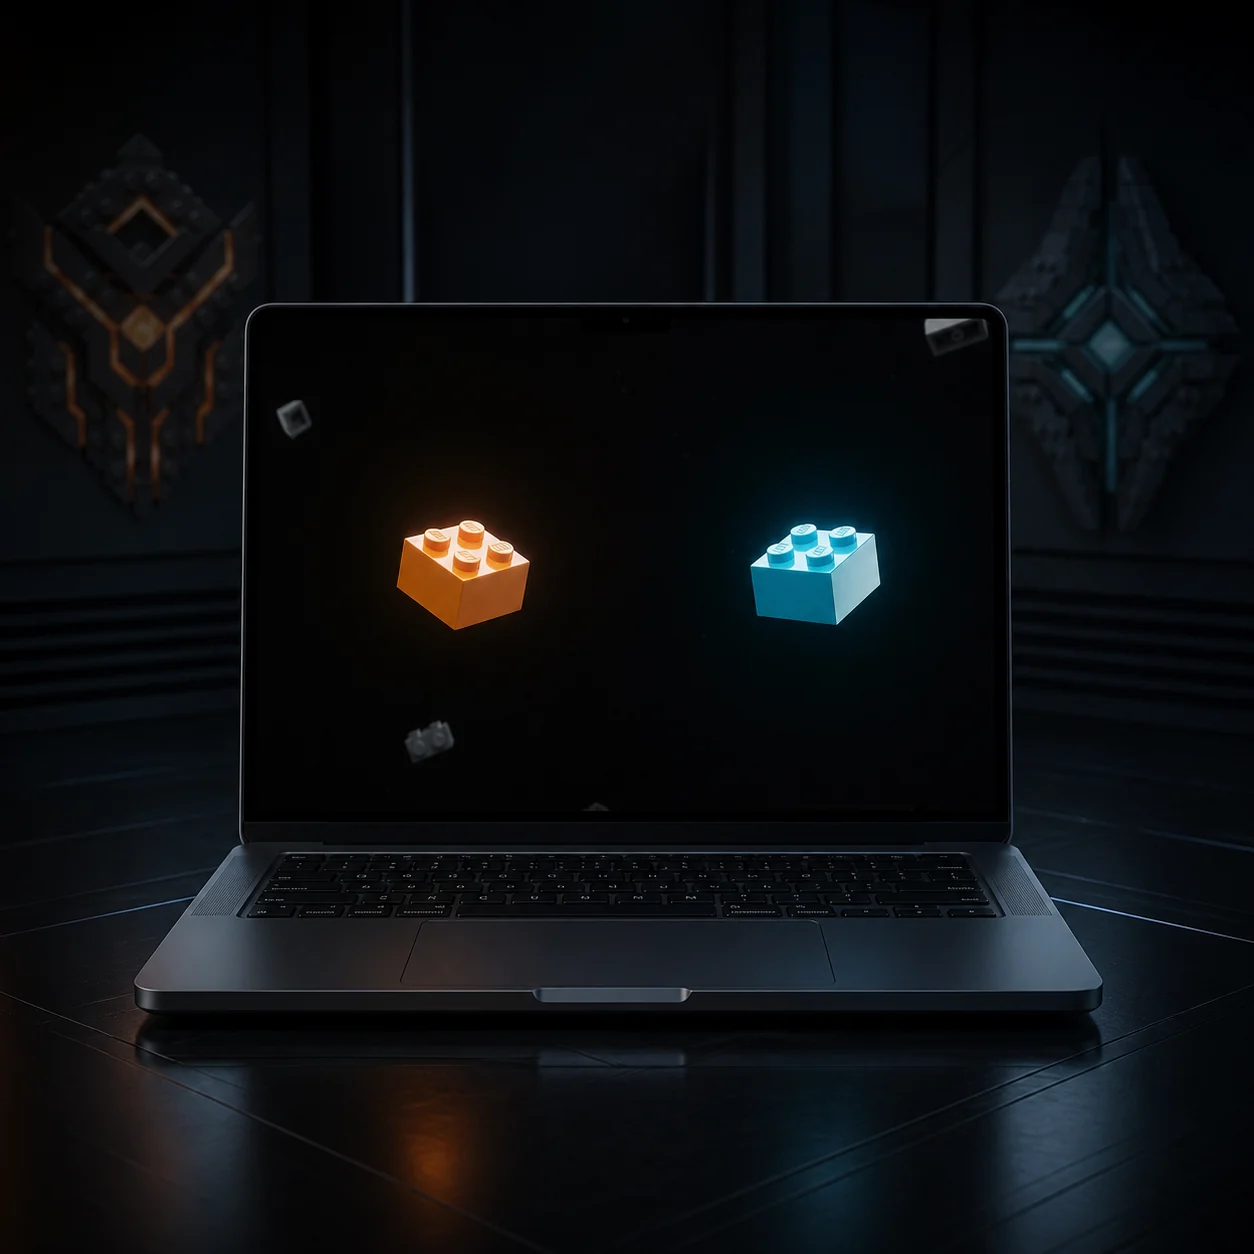
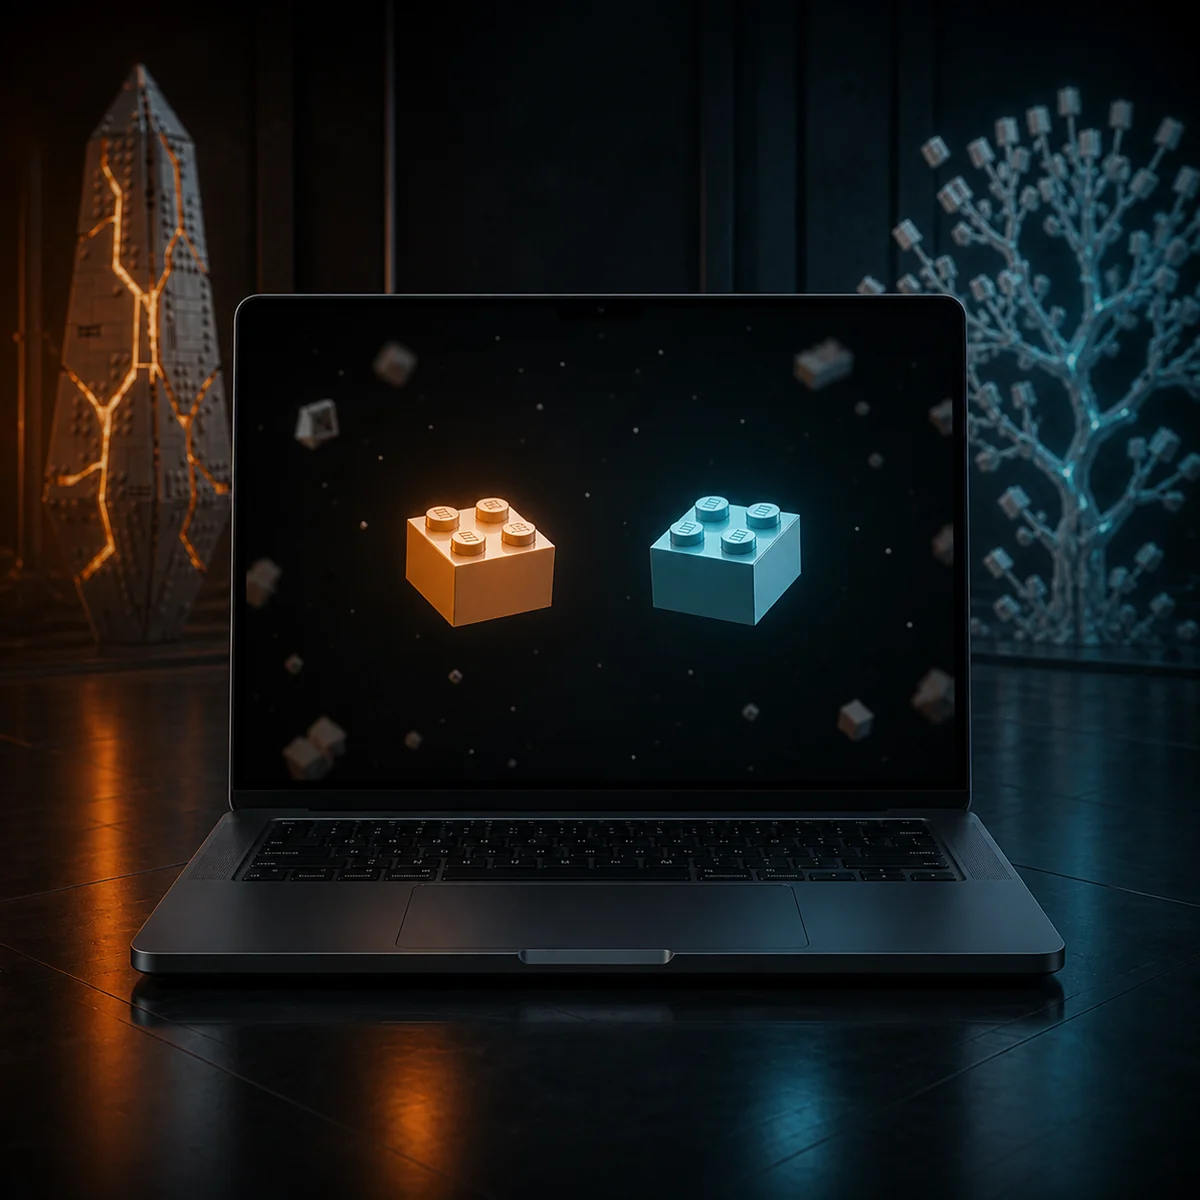
style(projects): refresh BRIXCORE mockup

diff --git a/CHANGELOG.md b/CHANGELOG.md
@@ -8,6 +8,11 @@ stosują [Semantic Versioning](https://semver.org/).
 
 ### Changed
 
+- Mockup „BRIXCORE” przebudowano na podstawie aktualnej wersji doświadczenia:
+  centralny ekran zachowuje rzeczywisty wybór między rdzeniami FORGE i EVOLVE,
+  a scenografia dyskretnie pokazuje oba filmowe rezultaty — pomarańczowy monolit
+  oraz cyjanową, generatywną strukturę. Kompozycja pozostaje wolna od dodatkowej
+  typografii konkurującej z treścią karty portfolio,
 - „BUILT BY NATURE” zastąpił „VEIL” na piątej pozycji wyróżnionej siódemki
   jako pełnoekranowy, filmowy esej o trzech biologicznych technologiach.
   Projekt otrzymał opis PL/EN, tagi zgodne z implementacją i dedykowany mockup
